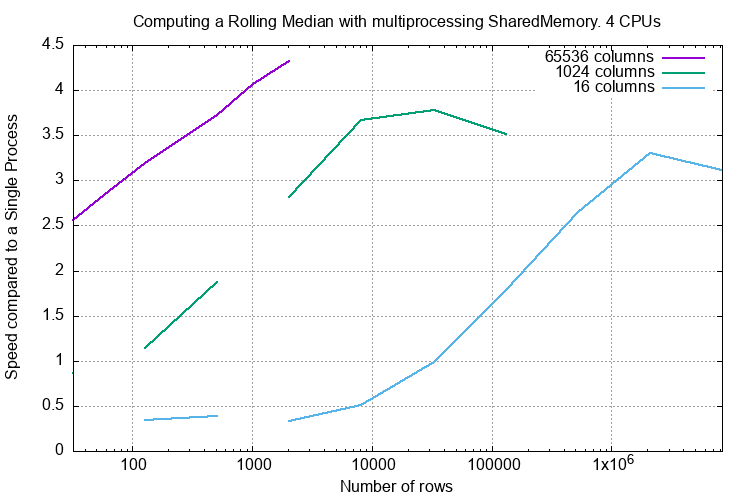
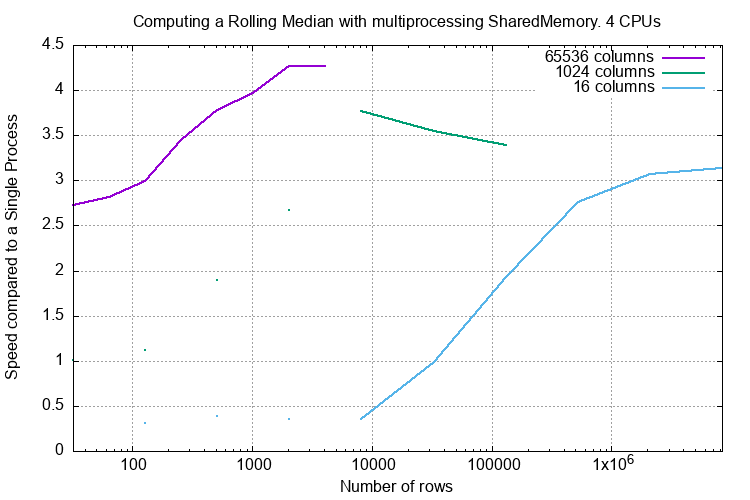
Shared memory new plots.

diff --git a/tests/unit/_test_rolling_median_shared_memory.py b/tests/unit/_test_rolling_median_shared_memory.py
@@ -28,6 +28,7 @@ Process finished with exit code 0
 import contextlib
 import io
 import logging
+import math
 import multiprocessing
 import sys
 import time
@@ -268,24 +269,49 @@ def _test_rm_2d_mp_time(rows, columns, process_range):
         _print(f'Rows: {rows:8d} Columns: {columns:8d} Processes: {p:8d} Time: {tim_exec:8.3f}')
     assert 0
 
+# s = 10 * 1024 ** 2 * 16
+# f'{s:,d}'
+# '167,772,160'
+# f'{s*8:,d}'
+# '1,342,177,280'
+NUMPY_SIZE = 8 * 1024 ** 2 * 16
+NUMPY_SIZE = 10 * 1024 ** 2 * 16
 
 @pytest.mark.parametrize(
-    'start_rows, end_rows, process_range',
+    'min_size, max_size, columns, process_range',
     (
-            (64, 10 * 1024 ** 2, range(1, 17)),
-            # (64, 1024, range(1, 17)),
+        # (1024, NUMPY_SIZE, 16, 16),
+        # (1024, NUMPY_SIZE, 1024, 16),
+        (1024, NUMPY_SIZE, 16 * 1024, 16),
     )
 )
-def _test_rm_2d_mp_time_b(start_rows, end_rows, process_range):
-    rows = start_rows
-    columns = 16
+def test_rm_2d_mp_time_b(min_size, max_size, columns, max_processes):
+    rm_2d_mp_time_b(min_size, max_size, columns, max_processes)
+    assert 0
+
+
+def rm_2d_mp_time_b(row_range, columns, max_processes):
+    """"""
+    # NUM_POINTS = 8
+    # rows = min_size // columns
+    # rows_max = max_size // columns
+    # rows_inc = 2**int(0.5 + (int(math.log2(rows_max)) - int(math.log2(rows))) / NUM_POINTS)
+    # rows_inc = max(rows_inc, 2)
     print()
+    print(
+        f'Rows {row_range}'
+        f' columns {columns}'
+        f' max processes {max_processes}'
+    )
     print(f'{"rows":8} {"columns":8} {"processes":8} {"tim_exec":8}')
     # results is {rows : {processes : time, ...}, ...}
     results = {}
-    while rows <= end_rows:
+    processes = set()
+    tim_overall = time.perf_counter()
+    for rows in row_range:
         read_array = np.random.random((rows, columns))
-        for p in process_range:
+        p = 1
+        while p <= max_processes:
             tim_start = time.perf_counter()
             _result = compute_rolling_median_2d_mp(read_array, 21, p)
             tim_exec = time.perf_counter() - tim_start
@@ -293,24 +319,28 @@ def _test_rm_2d_mp_time_b(start_rows, end_rows, process_range):
             if rows not in results:
                 results[rows] = {}
             results[rows][p] = tim_exec
-        rows *= 2
-    # gnuplot dat output
+            processes.add(p)
+            p *= 2
+        # rows *= rows_inc
+        # if rows > 64:
+        #     break
     print()
-    print('# Raw times')
+    # gnuplot dat output
+    print(f'# Raw times columns={columns}')
     print(f'# {"Rows":6}', end='')
-    for p in process_range:
+    for p in sorted(processes):
         s = f'p={p}'
         print(f' {s:>8}', end='')
     print()
     for row in sorted(results.keys()):
-        print(f'# {row:<8d}', end='')
+        print(f'{row:<8d}', end='')
         for p in sorted(results[row].keys()):
             print(f' {results[row][p]:8.3f}', end='')
         print()
     print()
-    print('# Speedup factor over a single process.')
+    print(f'# Speedup factor over a single process. columns={columns}')
     print(f'# {"Rows":6}', end='')
-    for p in process_range:
+    for p in processes:
         s = f'p={p}'
         print(f' {s:>8}', end='')
     print()
@@ -319,10 +349,12 @@ def _test_rm_2d_mp_time_b(start_rows, end_rows, process_range):
         for p in sorted(results[row].keys()):
             print(f' {results[row][1] / results[row][p]:8.3f}', end='')
         print()
-    assert 0
+    tim_exec_overall = time.perf_counter() - tim_overall
+    print(f'Overall time: {tim_exec_overall:8.3f}')
+    return results
 
 
-def main() -> int:  # pragma: no cover
+def experiment() -> int:  # pragma: no cover
     logging.basicConfig(level=logging.INFO,
                         format='%(asctime)s - %(filename)24s#%(lineno)-4d - %(process)5d - (%(threadName)-10s) - %(levelname)-8s - %(message)s',
                         stream=sys.stdout)
@@ -358,6 +390,46 @@ def main() -> int:  # pragma: no cover
             f' c.f. one CPU {time_1_cpu / timings[p]:8.3f}'
         )
     _print('Bye, bye!')
+    return 0
+
+
+def range_power(minimum, maximum, multiplier):
+    value = minimum
+    while value <= maximum:
+        yield value
+        value *= multiplier
+
+def dump_results(results):
+    # results is {columns : {rows : {processes : time, ...}, ...}, ...}
+    # Make a gnuplot table
+    rows = set()
+    for columns in results:
+        rows |= set(results[columns].keys())
+    processes = set()
+    for columns in results:
+        for rows in results[columns]:
+            processes |= set(results[columns][rows].keys())
+    # Now arrange in a table
+    for row_count in sorted(rows):
+        for column_count in sorted(results.keys()):
+            tim_unity = results[column_count][row_count][1]
+            for process_count in sorted(processes):
+                try:
+                    tim = results[column_count][row_count][process_count]
+                except KeyError:
+                    tim = math.nan
+
+
+def main() -> int:  # pragma: no cover
+    # experiment()
+    # pytest.main()
+    print(f'NUMPY_SIZE: {NUMPY_SIZE:,d}')
+    # results is {columns : {rows : {processes : time, ...}, ...}, ...}
+    results = {}
+    results[16]         = rm_2d_mp_time_b(range_power(128, 8388608, 4), 16, 16)
+    results[1024]       = rm_2d_mp_time_b(range_power(32, 131072, 4), 1024, 16)
+    results[64 * 1024]  = rm_2d_mp_time_b(range_power(32, 4096, 2), 64 * 1024, 16)
+    dump_results(results)
     return 0
 
 
